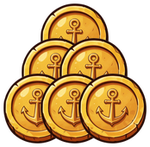
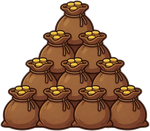
Bolsas de monedas, cajas despejadas y objetivos como frase
- La compra de oro pasa a BOLSAS: una bolsa llena dice "cien monedas" mucho
  mejor que un monton de discos sueltos, y el monton de 5 y de 10 escala la
  idea sin tener que contarlos. Generadas como piramide explicita.
- El "+" de cada caja baja 10 px (tapaba la cifra) y los iconos se corren a la
  izquierda para no rozarlo. Fuera la barra blanca del arroz: la cifra y la
  cuenta atras ya dicen cuanto queda.
- Ficha de nivel: el objetivo se lee como una FRASE, "tantas monedas -> tantas
  estrellas" (moneda + cifra, flecha, estrellas), y el record lleva tambien su
  moneda en vez de "Record: 61".

diff --git a/tools/ui2_prep.py b/tools/ui2_prep.py
@@ -391,17 +391,13 @@ def build_packs() -> None:
         (0.0, 0.55, 0.78), (0.44, 0.55, 0.78), (0.88, 0.55, 0.78),
         (0.22, 0.0, 0.78), (0.66, 0.0, 0.78)]), 150), "pack_arroz_5")
 
-    # Montones de MONEDAS para el cartel de compra de oro: compuestos con
-    # `_pile` a partir de la moneda suelta, que para discos apilados funciona
-    # perfectamente (no hay que alinear caras como en los lingotes).
-    mon = Image.open(OUT / "moneda.png").convert("RGBA")
-    save(fit_width(_pile(mon, [
-        (0.0, 0.30, 0.72), (0.38, 0.30, 0.72), (0.19, 0.0, 0.72)]), 140),
-        "pack_moneda_500")
-    save(fit_width(_pile(mon, [
-        (0.0, 0.62, 0.62), (0.34, 0.62, 0.62), (0.68, 0.62, 0.62),
-        (0.17, 0.31, 0.62), (0.51, 0.31, 0.62), (0.34, 0.0, 0.62)]), 150),
-        "pack_moneda_1000")
+    # BOLSAS de monedas para el cartel de compra de oro. Una moneda suelta
+    # apilada no dice "cien monedas"; una bolsa llena sí, y el montón de bolsas
+    # escala la idea sin tener que contar discos.
+    for src, dst, w in [("b1_1", "pack_moneda_100", 140),
+                        ("b5_1", "pack_moneda_500", 150),
+                        ("b10_2", "pack_moneda_1000", 150)]:
+        save(fit_width(crop_alpha(keep_largest(drop_white(load(src))), 2), w), dst)
 
     # Cartel de compra: toldo a rayas e interior vacío. Se dibuja a TAMAÑO FIJO
     # (no es 9-slice), así que se exporta a la resolución en la que se usa.
